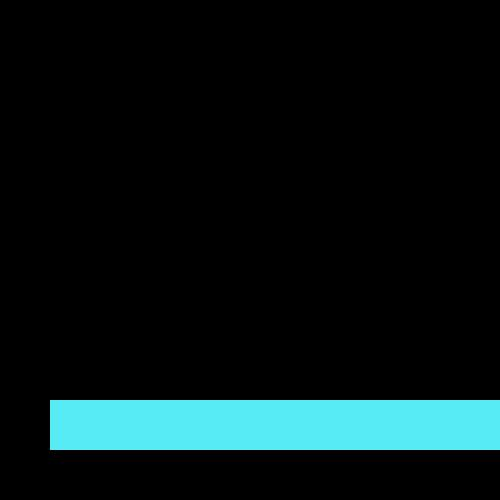
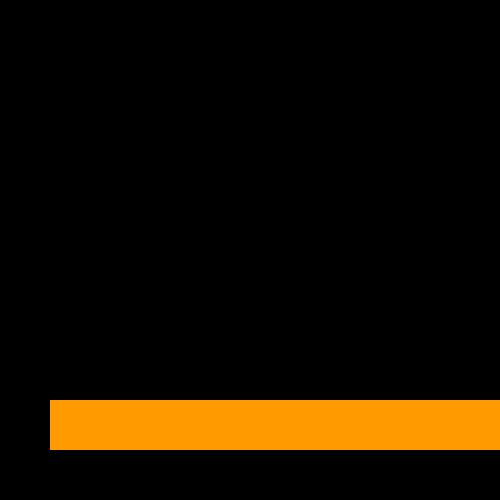
random rectangular art complete!

Changed region(s): [[0.09, 0.78, 1.0, 0.9]]

diff --git a/15-Two-Dimensional_Arrays/project1-ImageProcessing/ImageProcessing.java b/15-Two-Dimensional_Arrays/project1-ImageProcessing/ImageProcessing.java
@@ -37,11 +37,13 @@ public class ImageProcessing {
 
     int[][] random = paintRandomImage(blankCanvas);
     twoDToImage(random, baseDir + "/random_image.jpg");
-
-		int[] rectRGBA = {86,235,245,255};
-		int rectColor = getColorIntValFromRGBA( rectRGBA );
-    int[][]  pRect = paintRectangle(blankCanvas, 450, 50, 400, 50, rectColor);
+		
+		int[] rectRGBA = {255,154,0,255};
+    int[][]  pRect = paintRectangle(blankCanvas, 450, 50, 400, 50, getColorIntValFromRGBA( rectRGBA ));
     twoDToImage(pRect, baseDir + "/rect_image.jpg");
+
+    int[][] rectArt = generateRectangles(blankCanvas, 25);
+    twoDToImage(rectArt, baseDir + "/rect_art.jpg");
 
     // int[][] allFilters = stretchHorizontally(shrinkVertically(colorFilter(negativeColor(trimBorders(invertImage(imageData), 50)), 200, 20, 40)));
 		// Painting with pixels
@@ -155,7 +157,7 @@ public class ImageProcessing {
 	}
 	public static int[][] paintRectangle(int[][] canvas, int width, int height, int rowPosition, int colPosition, int color) {
 		// Draws a rectangle where defined by input
-		int[][] rectImage = new int[canvas.length][canvas[0].length];
+		int[][] rectImage = canvas;
 		// make sure not to go off the canvas
 		if(rowPosition >= canvas.length) {
 			rowPosition = canvas.length - 1;
@@ -177,8 +179,23 @@ public class ImageProcessing {
 		return rectImage;
 	}
 	public static int[][] generateRectangles(int[][] canvas, int numRectangles) {
-		// TODO: Fill in the code for this method
-		return null;
+		// Rect art creation
+		Random rand = new Random();
+		int[][] rectArt = new int[canvas.length][canvas[0].length];
+		for(int rect=0 ; rect < numRectangles ; rect++ ) {
+			int randHeight = rand.nextInt(canvas.length);
+			int randWidth = rand.nextInt(canvas[0].length);
+			int randRowPos = rand.nextInt(canvas.length - randHeight);
+			int randColPos = rand.nextInt(canvas[0].length - randWidth);
+			int[] randRgba = new int[4];
+			randRgba[0] = rand.nextInt(255);
+			randRgba[1] = rand.nextInt(255);
+			randRgba[2] = rand.nextInt(255);
+			randRgba[3] = 255;
+			int randColor = getColorIntValFromRGBA(randRgba);
+			rectArt = paintRectangle(rectArt, randWidth, randHeight, randRowPos, randColPos, randColor);
+		}
+		return rectArt;
 	}
 	// Utility Methods
 	public static int[][] imgToTwoD(String inputFileOrLink) {
